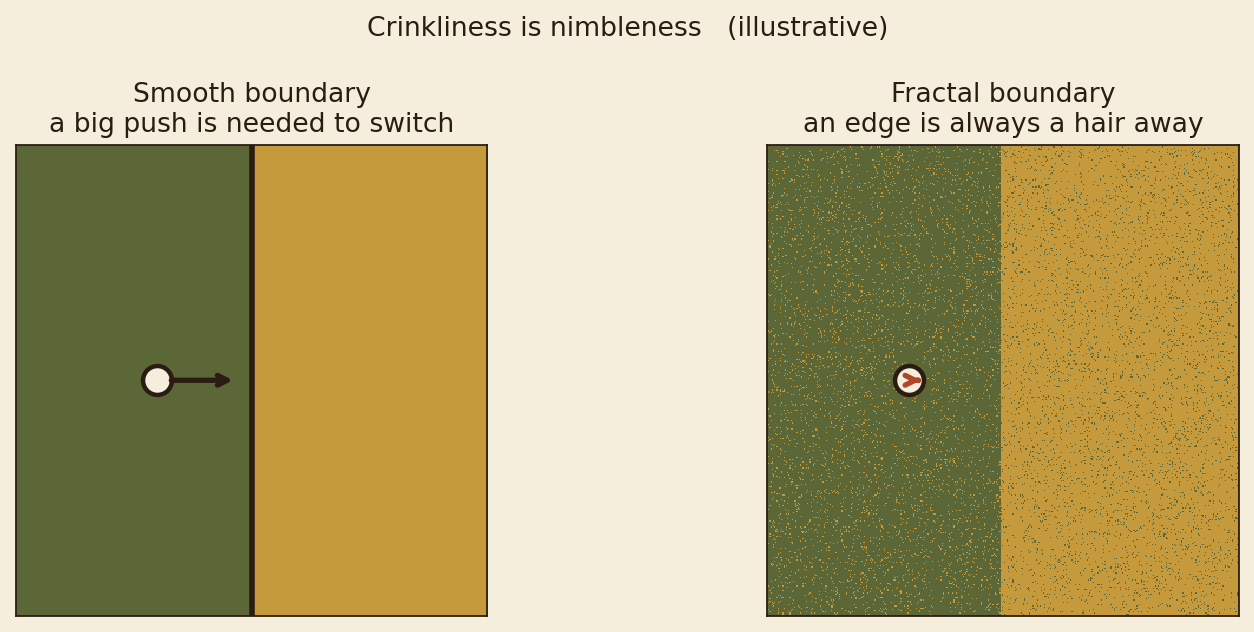
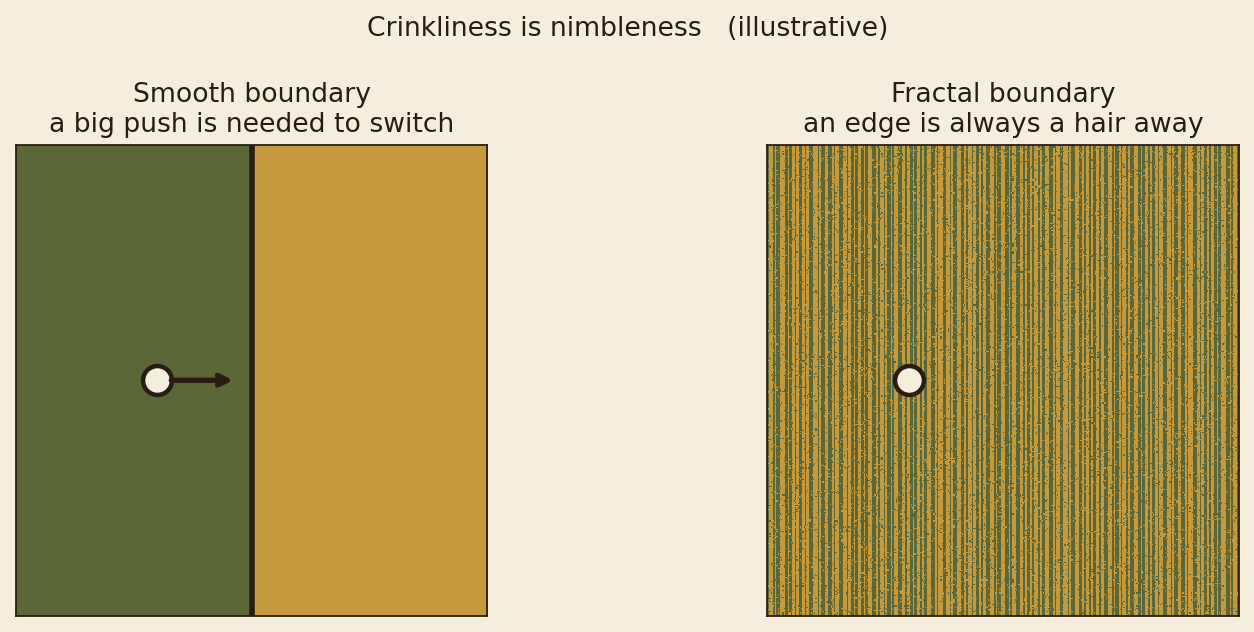
talk: fix the fractal-boundary panel in basin_cartoon.png -- it wasn't fractal
The "fractal boundary" panel's underlying pattern was built by summing
((X*2^k)%2)*0.5^k over 8 scales, then thresholding around the mean.
That weighted sum just reconstructs X to 8-bit precision -- verified
99.25% pixel agreement with the smooth panel's plain X>0.5 split. The
two panels of the deck's opening illustration were, underneath the 6%
noise-flip, the same picture.

Fixed by XOR-ing (parity of) the 8 scale-bits instead of summing them
with those weights -- this actually produces nested self-similar
interleaving at every scale, which is the entire point of the panel
("an edge is always a hair away").

Also removed the right panel's directional arrow: it overlapped the
marker into an illegible red/dark blob, and a single-direction arrow
doesn't fit the concept anyway -- the point of a riddled boundary is
that a nudge in ANY direction crosses an edge immediately, not one
specific push-direction like the smooth panel has. The marker alone
against the fine interleaving already reads as "surrounded on all
sides."

Verified: regenerated the figure, confirmed the two panels are now
visually and mathematically distinct, recompiled the deck and
rendered the slide to confirm it still fits within the figure
allowance with no layout regression.

Changed region(s): [[0.5909, 0.2104, 0.9952, 0.9921]]

diff --git a/talk/make_figs.py b/talk/make_figs.py
@@ -337,17 +337,26 @@ def fig_cartoon():
     a.set_title("Smooth boundary\na big push is needed to switch")
 
     rng = np.random.default_rng(1)
-    lab = np.zeros((g, g))
-    for k in range(1, 9):                       # nested interleaving -> fine scales
-        lab += ((X * 2**k).astype(int) % 2) * (0.5 ** k)
-    lab = (lab > lab.mean()).astype(float)
+    # Nested dyadic interleaving: XOR (parity of) 8 scales of the binary
+    # expansion of X. Summing the scales with weight 0.5**k (the earlier
+    # version) just reconstructs X to 8-bit precision and thresholds it --
+    # 99% identical to the smooth panel's plain X>0.5 split. XOR-ing them
+    # instead gives genuine self-similar interleaving at every scale, which
+    # is the actual point of this panel.
+    lab = np.zeros((g, g), dtype=int)
+    for k in range(1, 9):
+        lab ^= ((X * 2**k).astype(int) % 2)
+    lab = lab.astype(float)
     flip = rng.random((g, g)) < 0.06        # one mask, evaluated once
     lab[flip] = 1 - lab[flip]
     b.imshow(lab, cmap=matplotlib.colors.ListedColormap([OLIVE, OCHRE]),
              origin="lower", extent=[0, 1, 0, 1], interpolation="nearest")
+    # No directional arrow here, unlike the smooth panel: the whole point of
+    # "always a hair away" is that a nudge in ANY direction crosses a
+    # boundary immediately, not one specific push-direction. A marker alone
+    # against the fine interleaving already reads as "surrounded on all
+    # sides."
     b.plot(0.30, 0.5, "o", ms=13, color=CREAM, mec=DARK, mew=2)
-    b.annotate("", xy=(0.335, 0.5), xytext=(0.31, 0.5),
-               arrowprops=dict(arrowstyle="->", color=RUST, lw=2.4))
     b.set_title("Fractal boundary\nan edge is always a hair away")
     for ax in (a, b):
         ax.set_xticks([])